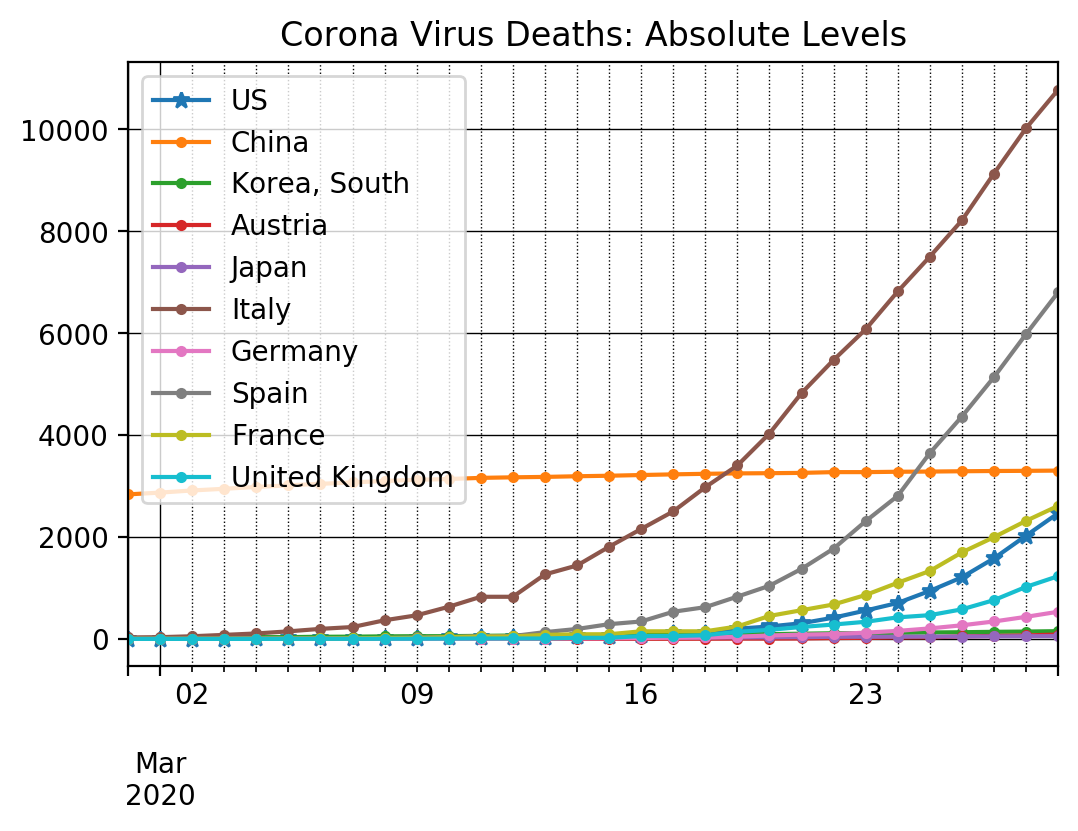
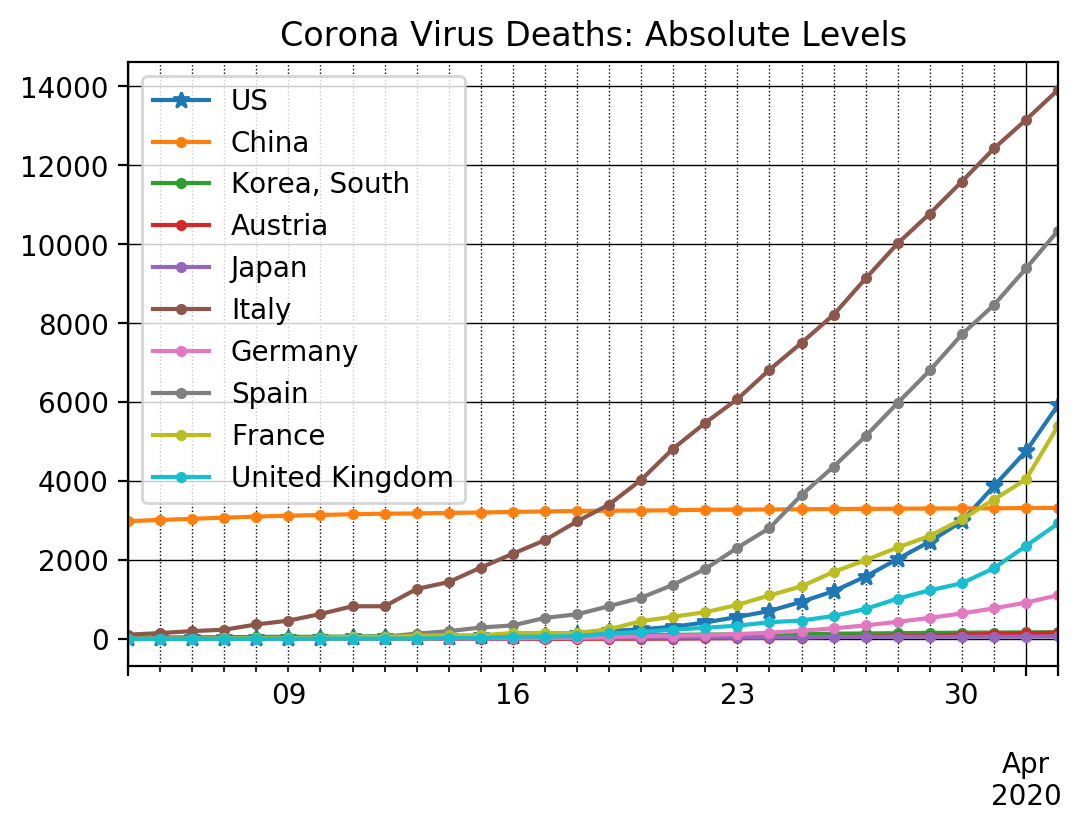
new sim

diff --git a/jdocs/Comp/html/Slides_Data_3.html b/jdocs/Comp/html/Slides_Data_3.html
@@ -397,18 +397,18 @@ coronavirus cases. We then drop some variables that we do not need, such as
 <span class="mi">1</span>        <span class="n">Albania</span>        <span class="mi">0</span>        <span class="mi">0</span>        <span class="mi">0</span>        <span class="mi">0</span>        <span class="mi">0</span>        <span class="mi">0</span>
 <span class="mi">2</span>        <span class="n">Algeria</span>        <span class="mi">0</span>        <span class="mi">0</span>        <span class="mi">0</span>        <span class="mi">0</span>        <span class="mi">0</span>        <span class="mi">0</span>
 
-   <span class="mi">1</span><span class="o">/</span><span class="mi">28</span><span class="o">/</span><span class="mi">20</span>  <span class="mi">1</span><span class="o">/</span><span class="mi">29</span><span class="o">/</span><span class="mi">20</span>  <span class="mi">1</span><span class="o">/</span><span class="mi">30</span><span class="o">/</span><span class="mi">20</span>  <span class="o">...</span>  <span class="mi">3</span><span class="o">/</span><span class="mi">20</span><span class="o">/</span><span class="mi">20</span>  <span class="mi">3</span><span class="o">/</span><span class="mi">21</span><span class="o">/</span><span class="mi">20</span>  <span class="mi">3</span><span class="o">/</span><span class="mi">22</span><span class="o">/</span><span class="mi">20</span>  <span class="mi">3</span><span class="o">/</span><span class="mi">23</span><span class="o">/</span><span class="mi">20</span>
+   <span class="mi">1</span><span class="o">/</span><span class="mi">28</span><span class="o">/</span><span class="mi">20</span>  <span class="mi">1</span><span class="o">/</span><span class="mi">29</span><span class="o">/</span><span class="mi">20</span>  <span class="mi">1</span><span class="o">/</span><span class="mi">30</span><span class="o">/</span><span class="mi">20</span>  <span class="o">...</span>  <span class="mi">3</span><span class="o">/</span><span class="mi">24</span><span class="o">/</span><span class="mi">20</span>  <span class="mi">3</span><span class="o">/</span><span class="mi">25</span><span class="o">/</span><span class="mi">20</span>  <span class="mi">3</span><span class="o">/</span><span class="mi">26</span><span class="o">/</span><span class="mi">20</span>  <span class="mi">3</span><span class="o">/</span><span class="mi">27</span><span class="o">/</span><span class="mi">20</span>
 \
-<span class="mi">0</span>        <span class="mi">0</span>        <span class="mi">0</span>        <span class="mi">0</span>  <span class="o">...</span>       <span class="mi">24</span>       <span class="mi">24</span>       <span class="mi">40</span>       <span class="mi">40</span>
-<span class="mi">1</span>        <span class="mi">0</span>        <span class="mi">0</span>        <span class="mi">0</span>  <span class="o">...</span>       <span class="mi">70</span>       <span class="mi">76</span>       <span class="mi">89</span>      <span class="mi">104</span>
-<span class="mi">2</span>        <span class="mi">0</span>        <span class="mi">0</span>        <span class="mi">0</span>  <span class="o">...</span>       <span class="mi">90</span>      <span class="mi">139</span>      <span class="mi">201</span>      <span class="mi">230</span>
+<span class="mi">0</span>        <span class="mi">0</span>        <span class="mi">0</span>        <span class="mi">0</span>  <span class="o">...</span>       <span class="mi">74</span>       <span class="mi">84</span>       <span class="mi">94</span>      <span class="mi">110</span>
+<span class="mi">1</span>        <span class="mi">0</span>        <span class="mi">0</span>        <span class="mi">0</span>  <span class="o">...</span>      <span class="mi">123</span>      <span class="mi">146</span>      <span class="mi">174</span>      <span class="mi">186</span>
+<span class="mi">2</span>        <span class="mi">0</span>        <span class="mi">0</span>        <span class="mi">0</span>  <span class="o">...</span>      <span class="mi">264</span>      <span class="mi">302</span>      <span class="mi">367</span>      <span class="mi">409</span>
 
-   <span class="mi">3</span><span class="o">/</span><span class="mi">24</span><span class="o">/</span><span class="mi">20</span>  <span class="mi">3</span><span class="o">/</span><span class="mi">25</span><span class="o">/</span><span class="mi">20</span>  <span class="mi">3</span><span class="o">/</span><span class="mi">26</span><span class="o">/</span><span class="mi">20</span>  <span class="mi">3</span><span class="o">/</span><span class="mi">27</span><span class="o">/</span><span class="mi">20</span>  <span class="mi">3</span><span class="o">/</span><span class="mi">28</span><span class="o">/</span><span class="mi">20</span>  <span class="mi">3</span><span class="o">/</span><span class="mi">29</span><span class="o">/</span><span class="mi">20</span>
-<span class="mi">0</span>       <span class="mi">74</span>       <span class="mi">84</span>       <span class="mi">94</span>      <span class="mi">110</span>      <span class="mi">110</span>      <span class="mi">120</span>
-<span class="mi">1</span>      <span class="mi">123</span>      <span class="mi">146</span>      <span class="mi">174</span>      <span class="mi">186</span>      <span class="mi">197</span>      <span class="mi">212</span>
-<span class="mi">2</span>      <span class="mi">264</span>      <span class="mi">302</span>      <span class="mi">367</span>      <span class="mi">409</span>      <span class="mi">454</span>      <span class="mi">511</span>
+   <span class="mi">3</span><span class="o">/</span><span class="mi">28</span><span class="o">/</span><span class="mi">20</span>  <span class="mi">3</span><span class="o">/</span><span class="mi">29</span><span class="o">/</span><span class="mi">20</span>  <span class="mi">3</span><span class="o">/</span><span class="mi">30</span><span class="o">/</span><span class="mi">20</span>  <span class="mi">3</span><span class="o">/</span><span class="mi">31</span><span class="o">/</span><span class="mi">20</span>  <span class="mi">4</span><span class="o">/</span><span class="mi">1</span><span class="o">/</span><span class="mi">20</span>  <span class="mi">4</span><span class="o">/</span><span class="mi">2</span><span class="o">/</span><span class="mi">20</span>
+<span class="mi">0</span>      <span class="mi">110</span>      <span class="mi">120</span>      <span class="mi">170</span>      <span class="mi">174</span>     <span class="mi">237</span>     <span class="mi">273</span>
+<span class="mi">1</span>      <span class="mi">197</span>      <span class="mi">212</span>      <span class="mi">223</span>      <span class="mi">243</span>     <span class="mi">259</span>     <span class="mi">277</span>
+<span class="mi">2</span>      <span class="mi">454</span>      <span class="mi">511</span>      <span class="mi">584</span>      <span class="mi">716</span>     <span class="mi">847</span>     <span class="mi">986</span>
 
-<span class="p">[</span><span class="mi">3</span> <span class="n">rows</span> <span class="n">x</span> <span class="mi">69</span> <span class="n">columns</span><span class="p">]</span>
+<span class="p">[</span><span class="mi">3</span> <span class="n">rows</span> <span class="n">x</span> <span class="mi">73</span> <span class="n">columns</span><span class="p">]</span>
 </pre></div>
 </div>
 <p>We next add up all the cases for each day by <code class="docutils literal notranslate"><span class="pre">Country/Region</span></code> using the
@@ -430,27 +430,27 @@ coronavirus cases. We then drop some variables that we do not need, such as
 <span class="n">Algeria</span>               <span class="mi">0</span>        <span class="mi">0</span>        <span class="mi">0</span>        <span class="mi">0</span>        <span class="mi">0</span>        <span class="mi">0</span>
 <span class="mi">0</span>
 
-                <span class="mi">1</span><span class="o">/</span><span class="mi">29</span><span class="o">/</span><span class="mi">20</span>  <span class="mi">1</span><span class="o">/</span><span class="mi">30</span><span class="o">/</span><span class="mi">20</span>  <span class="mi">1</span><span class="o">/</span><span class="mi">31</span><span class="o">/</span><span class="mi">20</span>  <span class="o">...</span>  <span class="mi">3</span><span class="o">/</span><span class="mi">20</span><span class="o">/</span><span class="mi">20</span>  <span class="mi">3</span><span class="o">/</span><span class="mi">21</span><span class="o">/</span><span class="mi">20</span>
-<span class="mi">3</span><span class="o">/</span><span class="mi">22</span><span class="o">/</span><span class="mi">20</span>  \
+                <span class="mi">1</span><span class="o">/</span><span class="mi">29</span><span class="o">/</span><span class="mi">20</span>  <span class="mi">1</span><span class="o">/</span><span class="mi">30</span><span class="o">/</span><span class="mi">20</span>  <span class="mi">1</span><span class="o">/</span><span class="mi">31</span><span class="o">/</span><span class="mi">20</span>  <span class="o">...</span>  <span class="mi">3</span><span class="o">/</span><span class="mi">24</span><span class="o">/</span><span class="mi">20</span>  <span class="mi">3</span><span class="o">/</span><span class="mi">25</span><span class="o">/</span><span class="mi">20</span>
+<span class="mi">3</span><span class="o">/</span><span class="mi">26</span><span class="o">/</span><span class="mi">20</span>  \
 <span class="n">Country</span><span class="o">/</span><span class="n">Region</span>                             <span class="o">...</span>
-<span class="n">Afghanistan</span>           <span class="mi">0</span>        <span class="mi">0</span>        <span class="mi">0</span>  <span class="o">...</span>       <span class="mi">24</span>       <span class="mi">24</span>
-<span class="mi">40</span>
-<span class="n">Albania</span>               <span class="mi">0</span>        <span class="mi">0</span>        <span class="mi">0</span>  <span class="o">...</span>       <span class="mi">70</span>       <span class="mi">76</span>
-<span class="mi">89</span>
-<span class="n">Algeria</span>               <span class="mi">0</span>        <span class="mi">0</span>        <span class="mi">0</span>  <span class="o">...</span>       <span class="mi">90</span>      <span class="mi">139</span>
-<span class="mi">201</span>
+<span class="n">Afghanistan</span>           <span class="mi">0</span>        <span class="mi">0</span>        <span class="mi">0</span>  <span class="o">...</span>       <span class="mi">74</span>       <span class="mi">84</span>
+<span class="mi">94</span>
+<span class="n">Albania</span>               <span class="mi">0</span>        <span class="mi">0</span>        <span class="mi">0</span>  <span class="o">...</span>      <span class="mi">123</span>      <span class="mi">146</span>
+<span class="mi">174</span>
+<span class="n">Algeria</span>               <span class="mi">0</span>        <span class="mi">0</span>        <span class="mi">0</span>  <span class="o">...</span>      <span class="mi">264</span>      <span class="mi">302</span>
+<span class="mi">367</span>
 
-                <span class="mi">3</span><span class="o">/</span><span class="mi">23</span><span class="o">/</span><span class="mi">20</span>  <span class="mi">3</span><span class="o">/</span><span class="mi">24</span><span class="o">/</span><span class="mi">20</span>  <span class="mi">3</span><span class="o">/</span><span class="mi">25</span><span class="o">/</span><span class="mi">20</span>  <span class="mi">3</span><span class="o">/</span><span class="mi">26</span><span class="o">/</span><span class="mi">20</span>  <span class="mi">3</span><span class="o">/</span><span class="mi">27</span><span class="o">/</span><span class="mi">20</span>  <span class="mi">3</span><span class="o">/</span><span class="mi">28</span><span class="o">/</span><span class="mi">20</span>
-<span class="mi">3</span><span class="o">/</span><span class="mi">29</span><span class="o">/</span><span class="mi">20</span>
+                <span class="mi">3</span><span class="o">/</span><span class="mi">27</span><span class="o">/</span><span class="mi">20</span>  <span class="mi">3</span><span class="o">/</span><span class="mi">28</span><span class="o">/</span><span class="mi">20</span>  <span class="mi">3</span><span class="o">/</span><span class="mi">29</span><span class="o">/</span><span class="mi">20</span>  <span class="mi">3</span><span class="o">/</span><span class="mi">30</span><span class="o">/</span><span class="mi">20</span>  <span class="mi">3</span><span class="o">/</span><span class="mi">31</span><span class="o">/</span><span class="mi">20</span>  <span class="mi">4</span><span class="o">/</span><span class="mi">1</span><span class="o">/</span><span class="mi">20</span>
+<span class="mi">4</span><span class="o">/</span><span class="mi">2</span><span class="o">/</span><span class="mi">20</span>
 <span class="n">Country</span><span class="o">/</span><span class="n">Region</span>
-<span class="n">Afghanistan</span>          <span class="mi">40</span>       <span class="mi">74</span>       <span class="mi">84</span>       <span class="mi">94</span>      <span class="mi">110</span>      <span class="mi">110</span>
-<span class="mi">120</span>
-<span class="n">Albania</span>             <span class="mi">104</span>      <span class="mi">123</span>      <span class="mi">146</span>      <span class="mi">174</span>      <span class="mi">186</span>      <span class="mi">197</span>
-<span class="mi">212</span>
-<span class="n">Algeria</span>             <span class="mi">230</span>      <span class="mi">264</span>      <span class="mi">302</span>      <span class="mi">367</span>      <span class="mi">409</span>      <span class="mi">454</span>
-<span class="mi">511</span>
+<span class="n">Afghanistan</span>         <span class="mi">110</span>      <span class="mi">110</span>      <span class="mi">120</span>      <span class="mi">170</span>      <span class="mi">174</span>     <span class="mi">237</span>
+<span class="mi">273</span>
+<span class="n">Albania</span>             <span class="mi">186</span>      <span class="mi">197</span>      <span class="mi">212</span>      <span class="mi">223</span>      <span class="mi">243</span>     <span class="mi">259</span>
+<span class="mi">277</span>
+<span class="n">Algeria</span>             <span class="mi">409</span>      <span class="mi">454</span>      <span class="mi">511</span>      <span class="mi">584</span>      <span class="mi">716</span>     <span class="mi">847</span>
+<span class="mi">986</span>
 
-<span class="p">[</span><span class="mi">3</span> <span class="n">rows</span> <span class="n">x</span> <span class="mi">68</span> <span class="n">columns</span><span class="p">]</span>
+<span class="p">[</span><span class="mi">3</span> <span class="n">rows</span> <span class="n">x</span> <span class="mi">72</span> <span class="n">columns</span><span class="p">]</span>
 </pre></div>
 </div>
 <p>We now transpose the dataframe because we want the time observations as rows
@@ -496,7 +496,7 @@ and not columns.</p>
 <span class="mi">1</span><span class="o">/</span><span class="mi">23</span><span class="o">/</span><span class="mi">20</span>                <span class="mi">0</span>
 <span class="mi">1</span><span class="o">/</span><span class="mi">24</span><span class="o">/</span><span class="mi">20</span>                <span class="mi">0</span>
 
-<span class="p">[</span><span class="mi">3</span> <span class="n">rows</span> <span class="n">x</span> <span class="mi">177</span> <span class="n">columns</span><span class="p">]</span>
+<span class="p">[</span><span class="mi">3</span> <span class="n">rows</span> <span class="n">x</span> <span class="mi">181</span> <span class="n">columns</span><span class="p">]</span>
 </pre></div>
 </div>
 <p>We are now ready to convert the index of the dataframe into a date index so
@@ -545,7 +545,7 @@ that we can use the built in time series commands in <strong>Pandas</strong>.</p
 <span class="mi">2020</span><span class="o">-</span><span class="mi">01</span><span class="o">-</span><span class="mi">23</span>             <span class="mi">0</span>
 <span class="mi">2020</span><span class="o">-</span><span class="mi">01</span><span class="o">-</span><span class="mi">24</span>             <span class="mi">0</span>
 
-<span class="p">[</span><span class="mi">3</span> <span class="n">rows</span> <span class="n">x</span> <span class="mi">177</span> <span class="n">columns</span><span class="p">]</span>
+<span class="p">[</span><span class="mi">3</span> <span class="n">rows</span> <span class="n">x</span> <span class="mi">181</span> <span class="n">columns</span><span class="p">]</span>
 </pre></div>
 </div>
 <p>Drop the last observation because it is an empty row.</p>
